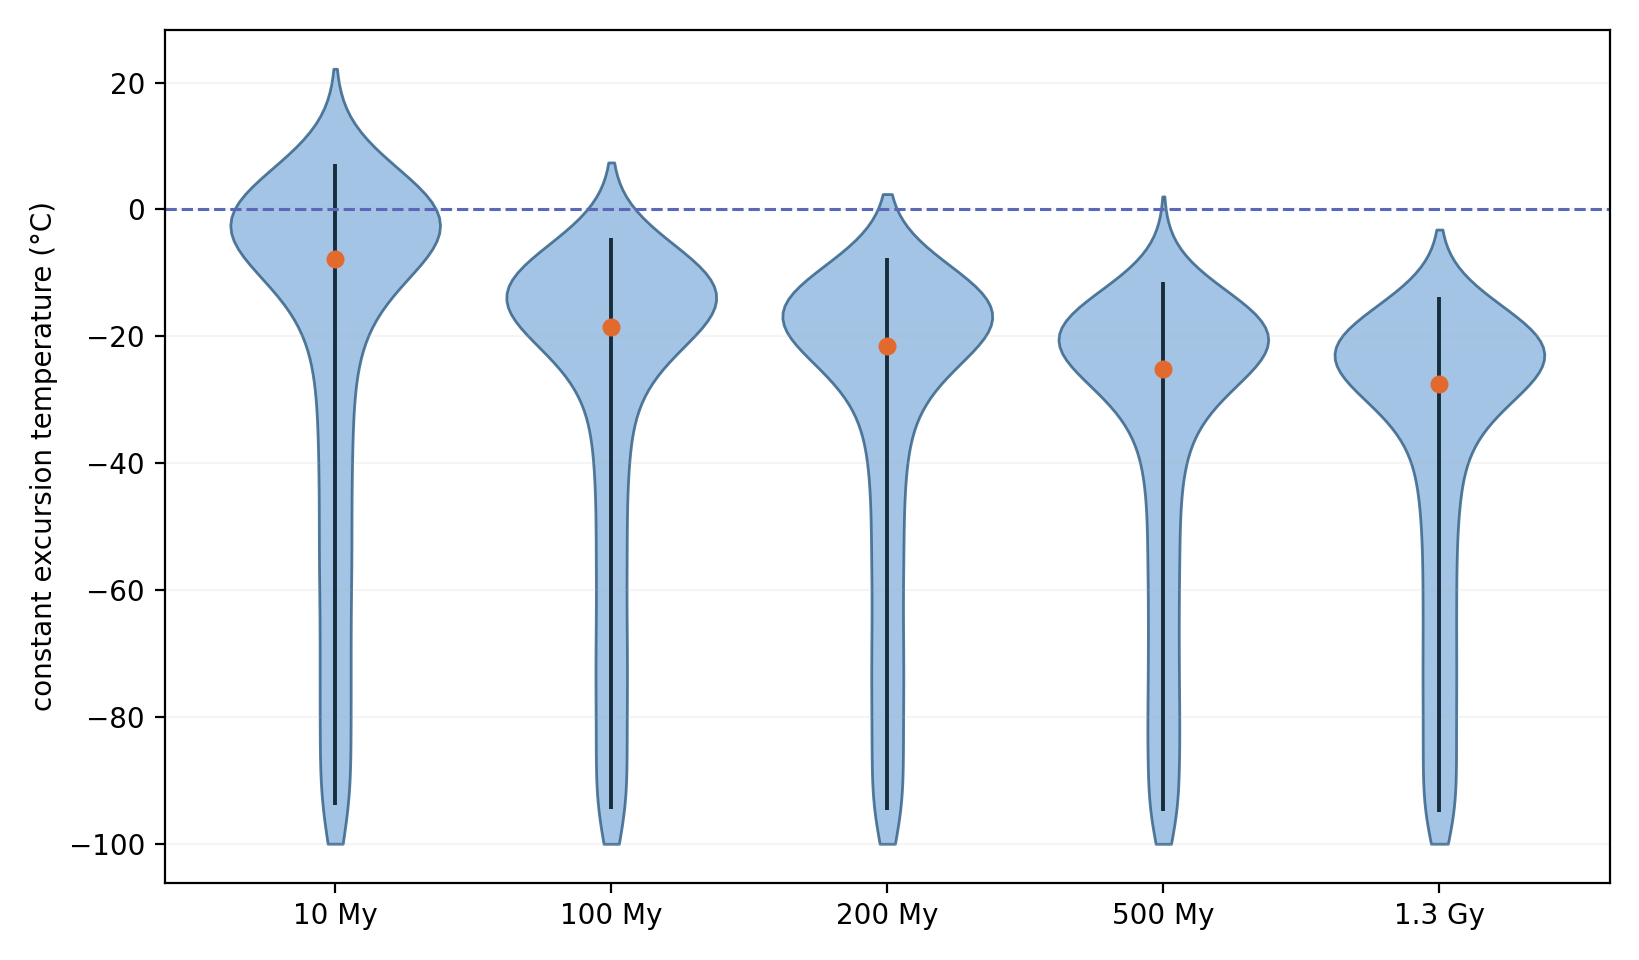
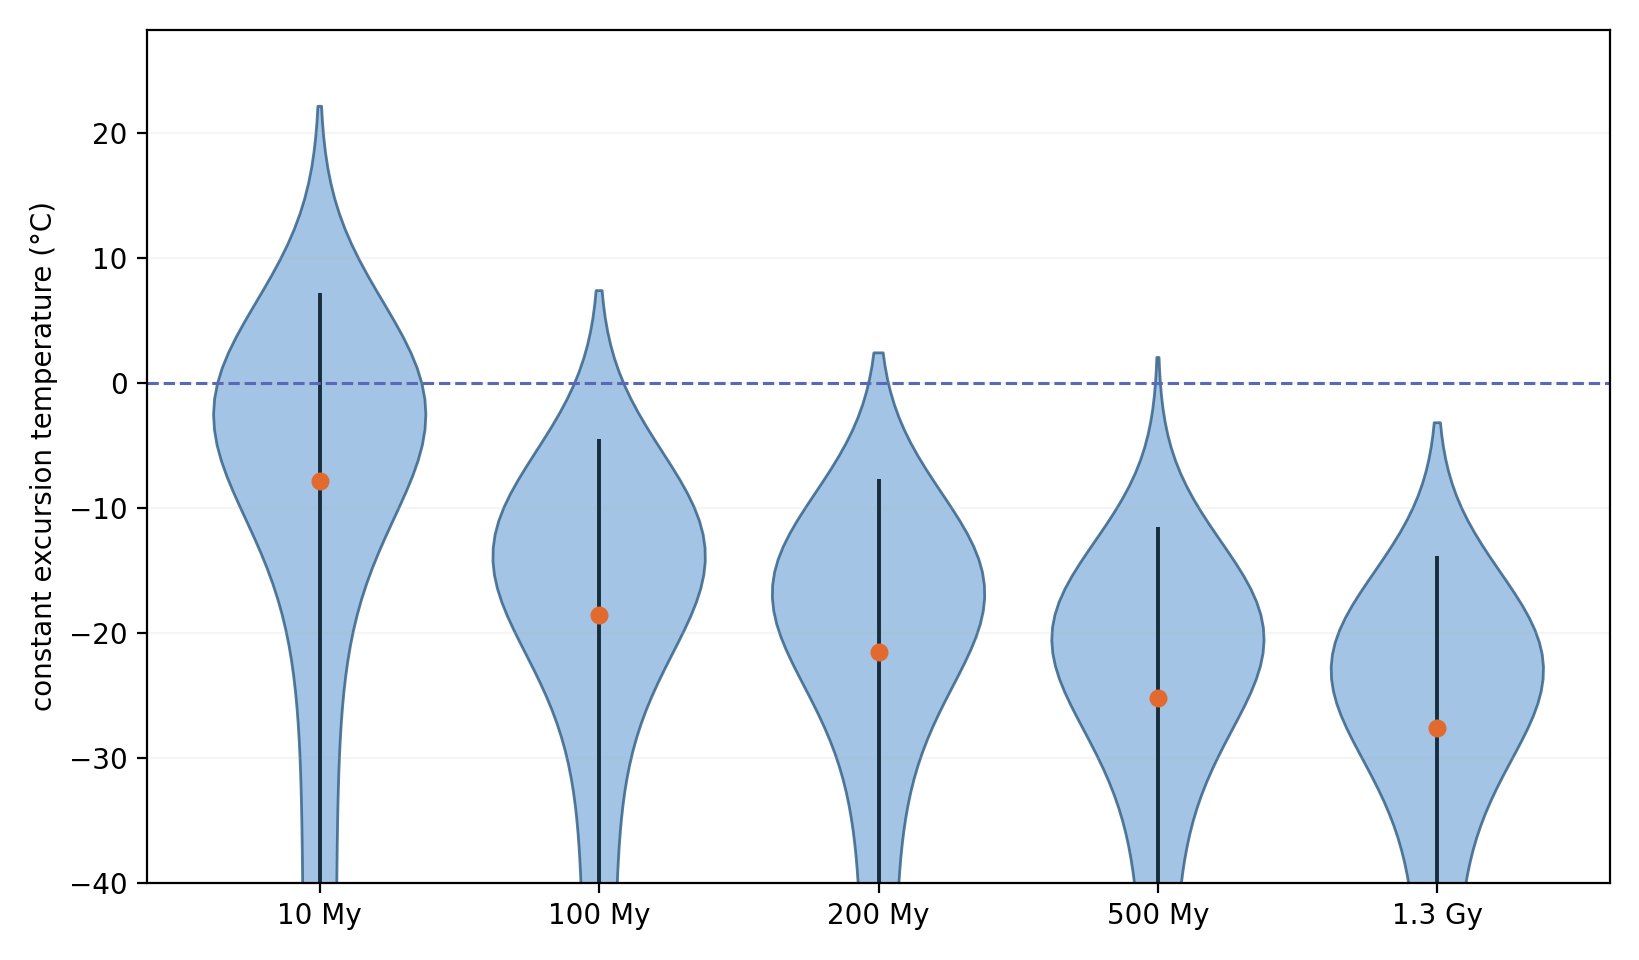
Remove timing density plot and crop temperature figure

diff --git a/analyze_joint_ensemble.py b/analyze_joint_ensemble.py
@@ -16,7 +16,6 @@ import jax
 import jax.numpy as jnp
 import matplotlib.pyplot as plt
 import numpy as np
-from scipy.ndimage import gaussian_filter1d
 
 from joint_thermochronology_jax import build_joint_target
 
@@ -230,6 +229,7 @@ def draw_temperature_violins(
         positions, ["10 My", "100 My", "200 My", "500 My", "1.3 Gy"]
     )
     axis.set_ylabel("constant excursion temperature (°C)")
+    axis.set_ylim(bottom=-40.0)
     axis.grid(axis="y", alpha=0.12)
     fig.tight_layout()
     fig.savefig(output / "joint_temperature_violin.png", dpi=200)
@@ -291,99 +291,6 @@ def draw_timing(
     fig.savefig(output / "joint_temperature_timing.png", dpi=200)
     plt.close(fig)
     return timing_summary
-
-
-def draw_temperature_density_grid(
-    posterior: dict[str, np.ndarray],
-    responsibilities: np.ndarray,
-    scenarios: list[dict],
-    output: Path,
-) -> None:
-    """Draw the complete temperature density at every sampled timing cell."""
-    flat_temperature = posterior["temperature_c"].reshape(-1)
-    temperature_edges = np.linspace(-100.0, 25.0, 401)
-    temperature_grid = 0.5 * (temperature_edges[:-1] + temperature_edges[1:])
-    duration_rows = (10, 100, 200, 500, 1300)
-    fig, axes = plt.subplots(
-        len(duration_rows),
-        1,
-        figsize=(9.2, 11.5),
-        sharex=True,
-        sharey=True,
-    )
-    for axis, duration in zip(axes, duration_rows):
-        cells = sorted(
-            (
-                cell
-                for cell in scenarios
-                if int(cell["duration_my"]) == duration
-            ),
-            key=lambda cell: cell["start_age_before_present_my"],
-        )
-        for cell in cells:
-            index = int(cell["index"])
-            start = float(cell["start_age_before_present_my"])
-            weights = responsibilities[..., index].reshape(-1)
-            density, _ = np.histogram(
-                flat_temperature,
-                bins=temperature_edges,
-                weights=weights,
-                density=True,
-            )
-            density = gaussian_filter1d(density, sigma=2.0, mode="nearest")
-            half_width = 44.0 * density / max(float(density.max()), 1e-12)
-            axis.fill_betweenx(
-                temperature_grid,
-                start - half_width,
-                start + half_width,
-                color=LIGHT_BLUE,
-                alpha=0.78,
-                linewidth=0,
-            )
-            axis.plot(
-                start - half_width,
-                temperature_grid,
-                color=BLUE,
-                lw=0.75,
-            )
-            axis.plot(
-                start + half_width,
-                temperature_grid,
-                color=BLUE,
-                lw=0.75,
-            )
-            low, median, high = weighted_quantile(
-                flat_temperature,
-                weights,
-                np.asarray([0.025, 0.5, 0.975]),
-            )
-            axis.vlines(start, low, high, color=DARK, lw=1.0, zorder=4)
-            axis.scatter(
-                start,
-                median,
-                color=ORANGE,
-                s=18,
-                zorder=5,
-            )
-        axis.axhline(0.0, color="#5b67b7", ls="--", lw=0.85)
-        axis.set_ylabel(f"{duration / 1000:g} Gy" if duration >= 1000 else f"{duration} My")
-        axis.grid(alpha=0.10)
-    axes[-1].set_xlabel("excursion onset before present (My)")
-    fig.supylabel("constant excursion temperature (°C)", x=0.015)
-    axes[-1].set_xlim(-55, 1360)
-    axes[-1].set_ylim(-101, 25)
-    fig.text(
-        0.995,
-        0.006,
-        "silhouette: full conditional density   line: central 95%   point: median",
-        ha="right",
-        va="bottom",
-        fontsize=8,
-        color="#59636a",
-    )
-    fig.tight_layout(rect=(0.025, 0.018, 1, 1))
-    fig.savefig(output / "joint_temperature_density_grid.png", dpi=220)
-    plt.close(fig)
 
 
 def draw_ppc(
@@ -529,9 +436,6 @@ def main() -> None:
     )
     draw_temperature_violins(
         posterior, responsibilities, scenarios, args.output_dir, rng
-    )
-    draw_temperature_density_grid(
-        posterior, responsibilities, scenarios, args.output_dir
     )
     summary["temperature_timing"] = draw_timing(scenarios, args.output_dir)
     summary["posterior_predictive_coverage"] = draw_ppc(

diff --git a/package_joint_artifact.py b/package_joint_artifact.py
@@ -144,7 +144,7 @@ at least `{100 * scenario_overlap_minimum:.1f}%` across all 21 timing cells.
 See `marginal_audit_summary.json` and the two marginal-comparison figures.
 
 The cold lower tail is prior-dominated. Event timing changes the upper
-constraint and is reported in `joint_temperature_density_grid.png`. This is a Nakhla
+constraint and is tabulated in `analysis_summary.json`. This is a Nakhla
 analysis covering the last 1.3 Gy; it does not test Noachian denudation or
 replace the ALH84001 part of Shuster and Weiss (2005).
 

diff --git a/artifacts/joint_age_spectrum_20260721/README.md b/artifacts/joint_age_spectrum_20260721/README.md
@@ -29,7 +29,7 @@ at least `93.2%` across all 21 timing cells.
 See `marginal_audit_summary.json` and the two marginal-comparison figures.
 
 The cold lower tail is prior-dominated. Event timing changes the upper
-constraint and is reported in `joint_temperature_density_grid.png`. This is a Nakhla
+constraint and is tabulated in `analysis_summary.json`. This is a Nakhla
 analysis covering the last 1.3 Gy; it does not test Noachian denudation or
 replace the ALH84001 part of Shuster and Weiss (2005).
 